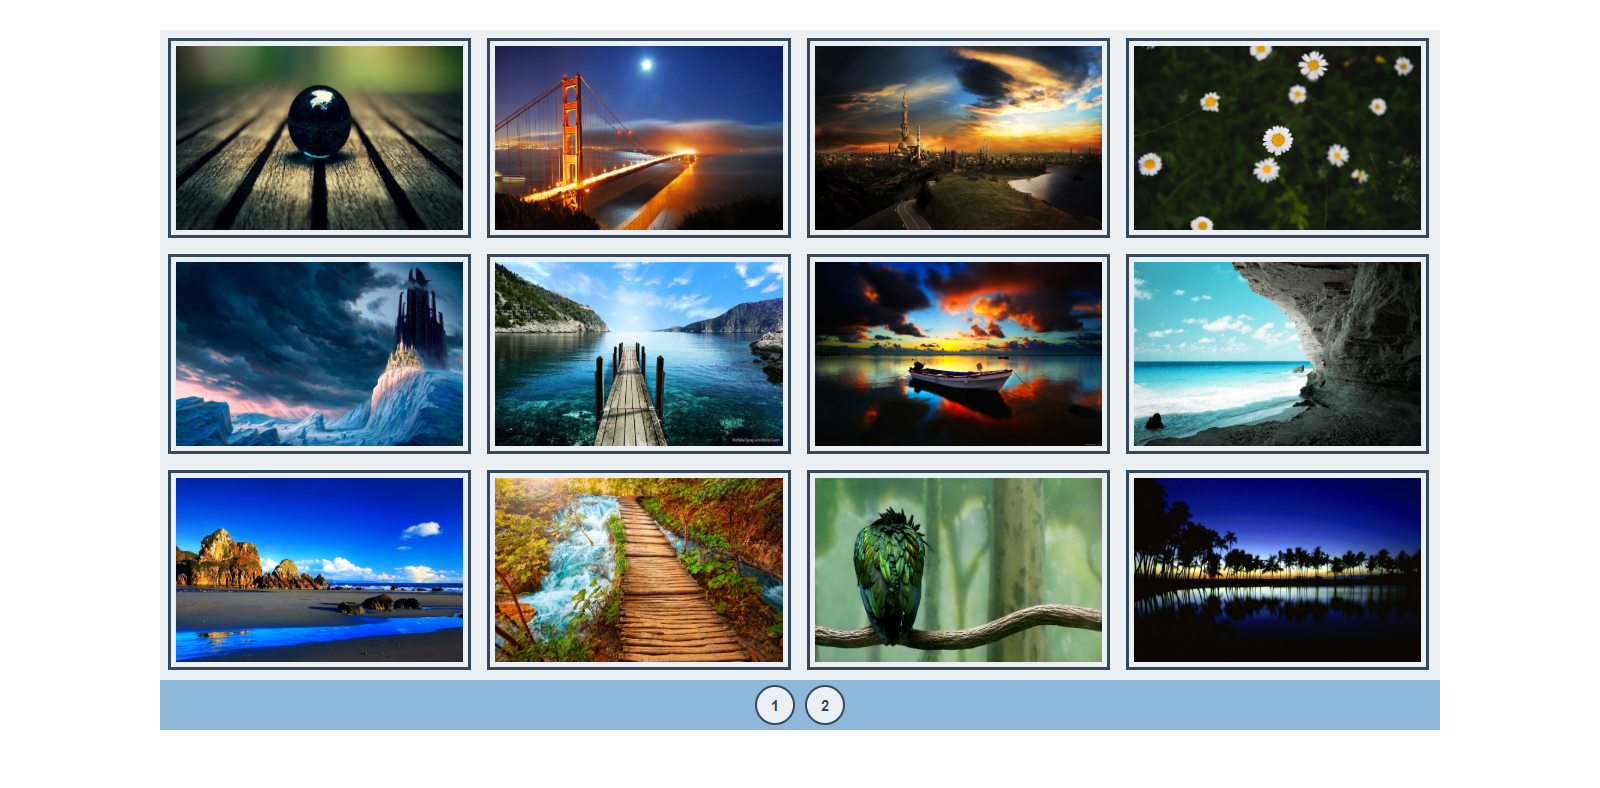
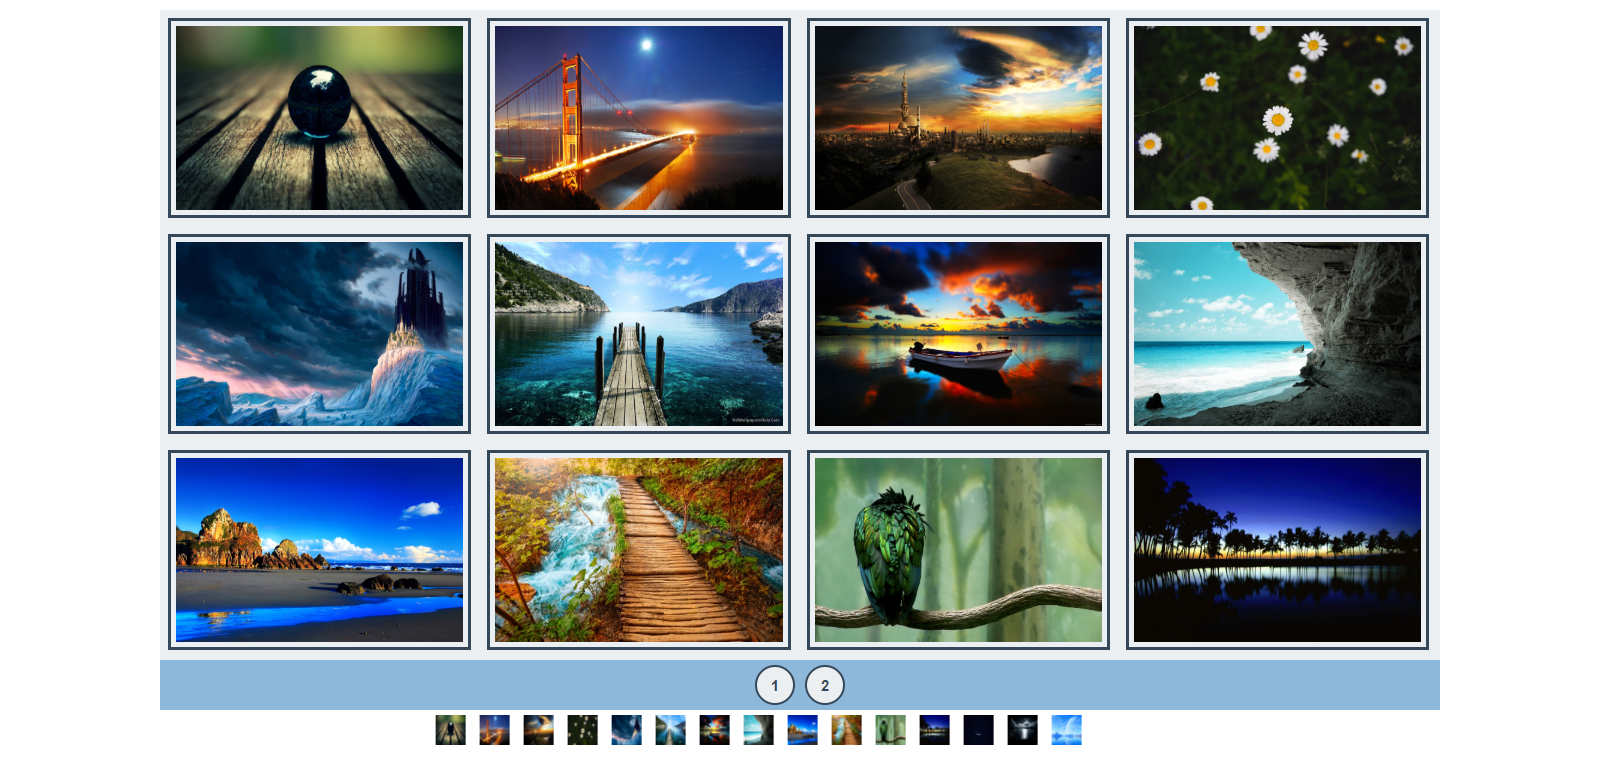
Add New Things

diff --git a/JavaScript.js b/JavaScript.js
@@ -1,11 +1,14 @@
-var pic = 15; // Total number of images in database.
+var dbimg = document.querySelectorAll(".dbimg"); // Collect All Images from html.
+
+var pic = dbimg.length; // Total number of images in database.
 var number = 12; // Only Display 12 images in webpage.
 var start = 1, end = number;
 var repeation = pic / number; // Total images divided by 12.
 
 var main = document.querySelector(".main"); // Select main box for clear old appendChild.
-var glassScreen = document.querySelector(".glassScreen"); // Select glass class for do operation.
 var display = document.querySelector(".display"); // Select display class for display big image.
+
+var glassScreen = document.querySelector(".glassScreen"); // Select glass class for do operation.
 var displaybutton = document.querySelector(".display-button"); // Select display-button class for hide arrow button
 
 function clearsmallimage(main) { // Clear firstchild of main class.
@@ -29,7 +32,10 @@ function displaySmallImage(start, end) {  // Display small images on webpage.
 
         var img = document.createElement("img");
         img.value = i;
-        img.src = "Images/" + [i] + ".JPG";
+        if(img.value === i)
+        {
+          img.src = dbimg[i - 1].src;
+        }
         img.setAttribute("class", "image");
         img.onclick = function () { imageclick(this.value) };
         document.querySelector(".div-box" + [i]).appendChild(img);
@@ -71,7 +77,7 @@ function imageclick(value) { // Click on small image to display particular image
 
     var displayimg = document.createElement("img");
     displayimg.value = value;
-    displayimg.src = "Images/" + [value] + ".JPG";
+    displayimg.src = dbimg[value - 1].src;
     displayimg.alt = "Images/16.jpg";
     displayimg.setAttribute("class", "image");
     displayimg.setAttribute("id", "bigimage");
@@ -81,37 +87,34 @@ function imageclick(value) { // Click on small image to display particular image
 function arrow(value)
 {
   var bigimage = document.querySelector("#bigimage"); // To slide images
-
   if(value === "left")
   {
-    for(i = start ; i <= pic ; i++)
-    {
-      if(bigimage.value === start)
-      {
-        bigimage.value = pic;
-      }
-      if(bigimage.value === i)
-      {
-        bigimage.src = "Images/" + [bigimage.value - 1] + ".JPG";
-      }
-    }
     bigimage.value = bigimage.value - 1;
-    console.log(bigimage.value);
+    if(bigimage.value === 0)
+    {
+      bigimage.value = pic;
+    }
+    imageloop(bigimage.value);
   }
   else {
-    for(i = start ; i <= pic ; i++)
-    {
-      if(bigimage.value === pic)
-      {
-        bigimage.value = 1;
-      }
-      if(bigimage.value === i)
-      {
-        bigimage.src = "Images/" + [bigimage.value + 1] + ".JPG";
-      }
-    }
     bigimage.value = bigimage.value + 1;
-    console.log(bigimage.value);
+    if(bigimage.value === pic + 1)
+    {
+      bigimage.value = start;
+    }
+    imageloop(bigimage.value);    
+  }
+}
+
+function imageloop(value)
+{
+  for(i = start ; i <= pic ; i++)
+  {
+    if(value === i)
+    {
+      console.log(value,i,dbimg[i - 1].src);
+      bigimage.src = dbimg[i - 1].src;
+    }
   }
 }
 

diff --git a/Css.css b/Css.css
@@ -14,10 +14,10 @@ body{
 }
 
 .main{
-    width:80%;
+    width:1280px;
     min-height:650px;
     margin: auto;
-    margin-top: 30px;
+    margin-top: 10px;
     background-color: rgb(235, 239, 241);
 }
 
@@ -32,7 +32,7 @@ body{
 
 .button-div
 {
-  width: 80%;
+  width: 1280px;
   height: 50px;
   margin: auto;
   background-color: #8eb8da;
@@ -69,13 +69,13 @@ body{
 }
 
 .display{
-  width: 80%;
+  width: 1280px;
   height: 650px;
   margin: auto;
   border: 3px solid rgb(52, 72, 90);
   padding: 5px;
   position: absolute;
-  top: 4%;
+  top: 10px;
   left: 10%;
   background-color: white;
   border-radius: 40px;
@@ -83,10 +83,10 @@ body{
 }
 
 .display-button{
-  width: 80%;
+  width: 1280px;
   height: 50px;
   position: absolute;
-  top: 89.7%;
+  top: 660px;
   left: 10%;
   display:none;
 }
@@ -113,4 +113,19 @@ body{
 #buttonright{
   background-image: url("RightArrow.png");
   background-size: 100% 100%;
+}
+
+.database
+{
+  width: 1280px;
+  height: 40px;
+  margin: auto;
+  display: flex;
+  justify-content: center;
+}
+
+.dbimg{
+  width:30px;
+  height:30px;
+  margin:5px;
 }

diff --git a/Index.html b/Index.html
@@ -20,6 +20,25 @@
         <div class="glassbutton" id="buttonright" onclick="arrow('right')"></div>
       </div>
     </div>
+    <div class="database">
+    <marquee>
+      <img src="Images/1.jpg" class="dbimg">
+      <img src="Images/2.jpg" class="dbimg">
+      <img src="Images/3.jpg" class="dbimg">
+      <img src="Images/4.jpg" class="dbimg">
+      <img src="Images/5.jpg" class="dbimg">
+      <img src="Images/6.jpg" class="dbimg">
+      <img src="Images/7.jpg" class="dbimg">
+      <img src="Images/8.jpg" class="dbimg">
+      <img src="Images/9.jpg" class="dbimg">
+      <img src="Images/10.jpg" class="dbimg">
+      <img src="Images/11.jpg" class="dbimg">
+      <img src="Images/12.jpg" class="dbimg">
+      <img src="Images/13.jpg" class="dbimg">
+      <img src="Images/14.jpg" class="dbimg">
+      <img src="Images/15.jpg" class="dbimg">
+    </marquee>
+    </div>
     <script src="JavaScript.js"></script>
 </body>
 
